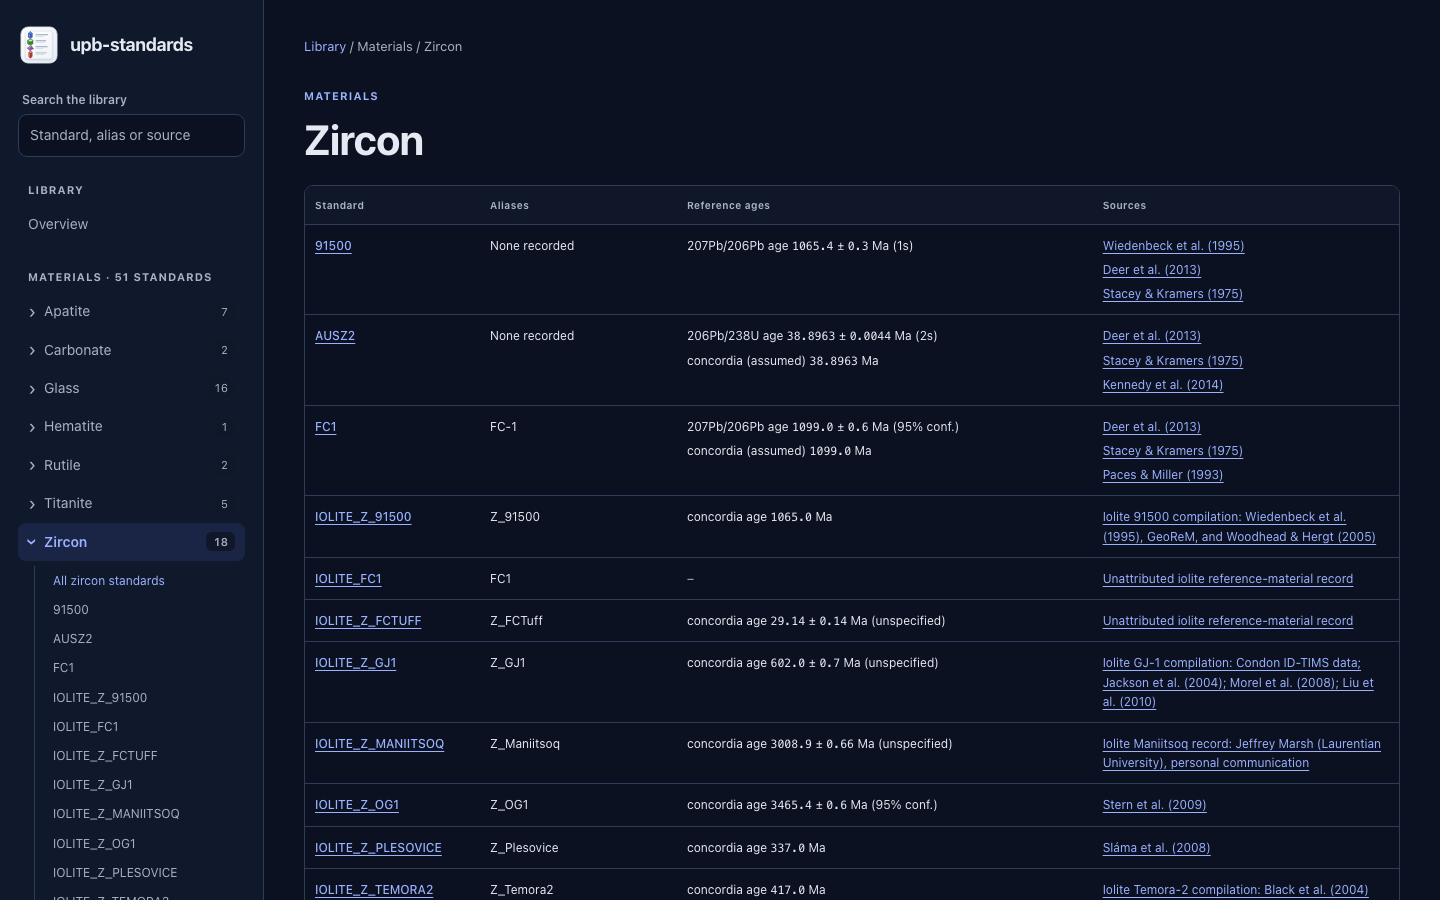
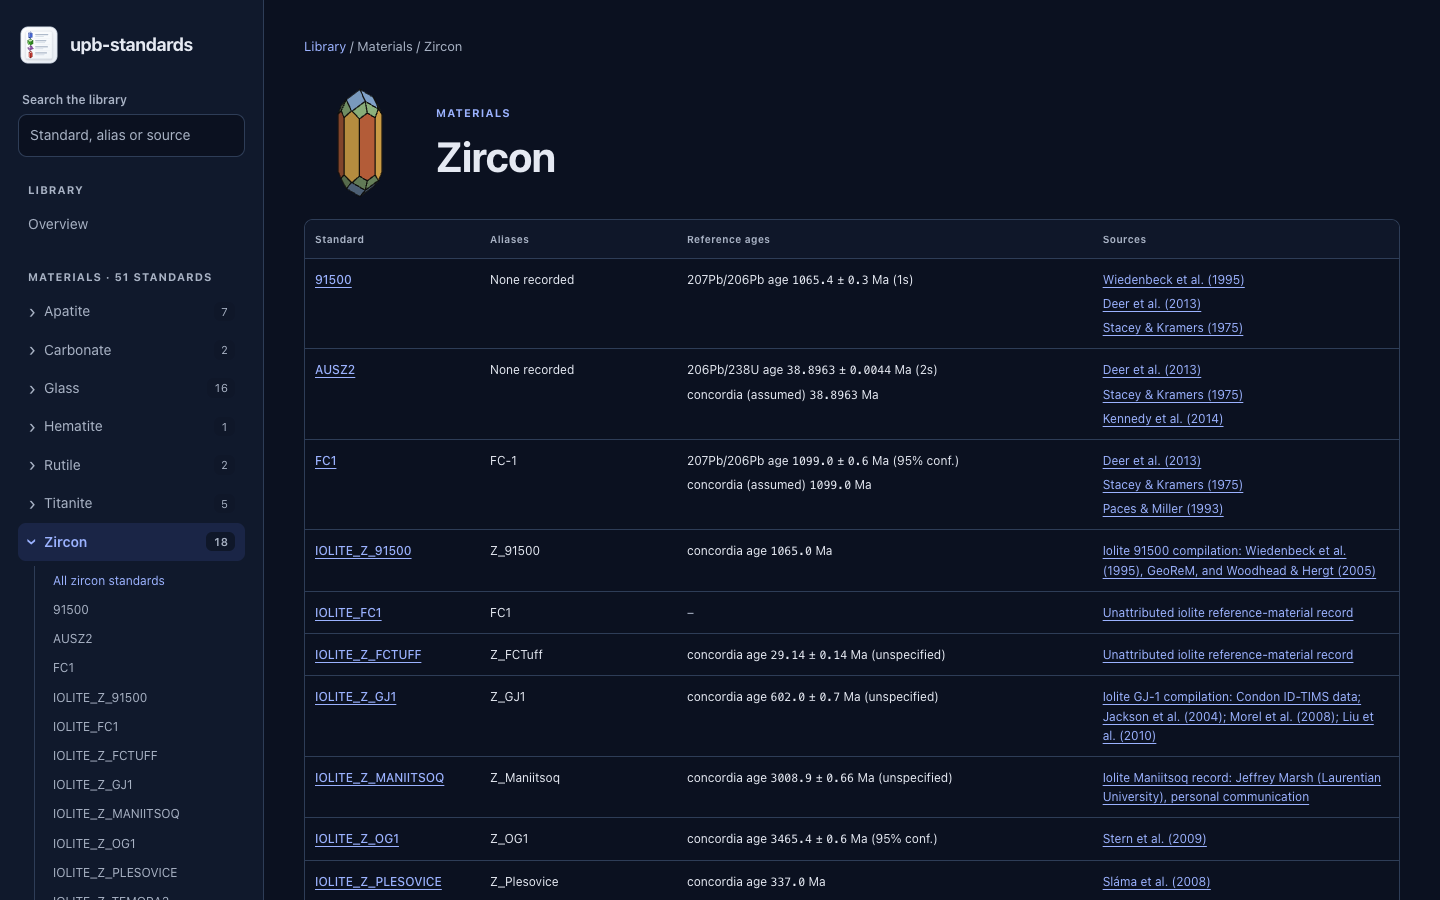
Spin Mineral Habit Atlas crystals as the mineral marks
The site's hand-drawn mineral outlines are replaced by the card crystals of
the Mineral Habit Atlas. assets/make_mineral_icons.py projects each atlas
crystal with the atlas view and lights into a still SVG and writes the face
geometry to crystals.json. Pages embed the crystals they show and a small
canvas renderer spins them at device resolution, pausing off screen and
holding still under reduced motion or without JavaScript. Carbonate uses
calcite; glass is a drawn shard. Material pages get a large crystal next to
the title, and the README materials screenshots are retaken.

diff --git a/site/static/style.css b/site/static/style.css
@@ -69,8 +69,12 @@ p { margin: 0 0 16px; }
 .card { display: block; padding: 22px; text-decoration: none; color: var(--text); box-shadow: var(--shadow); }
 .card:hover { border-color: var(--accent); text-decoration: none; }
 .card-top { display: flex; align-items: center; gap: 12px; margin-bottom: 18px; }
-.mineral-mark { display: grid; place-items: center; width: 38px; height: 42px; color: var(--accent); }
-.mineral-mark svg { width: 34px; height: 42px; }
+.mineral-mark { position: relative; display: block; flex: none; width: 64px; height: 64px; }
+.mineral-mark svg, .mineral-mark canvas { position: absolute; inset: 0; width: 100%; height: 100%; }
+.mineral-mark.live svg { visibility: hidden; }
+.mineral-mark.hero { width: 112px; height: 112px; }
+.material-head { display: flex; align-items: center; gap: 20px; margin-bottom: 8px; }
+.material-head h1 { margin-bottom: 0; }
 .card h3 { margin: 0; }
 .card p { color: var(--muted); font-size: 13px; margin: 0; }
 .card .card-meta { display: flex; justify-content: space-between; margin-top: 18px; color: var(--accent); font-size: 13px; }
@@ -165,6 +169,7 @@ pre code { padding: 0; background: none; overflow-wrap: normal; }
 .visually-hidden { position: absolute; width: 1px; height: 1px; padding: 0; margin: -1px; overflow: hidden; clip-path: inset(50%); white-space: nowrap; border: 0; }
 @media (min-width: 900px) { #nav-toggle { display: none; } }
 @media (max-width: 540px) {
+  .mineral-mark.hero { width: 80px; height: 80px; }
   main { padding-inline: 16px; }
   .breadcrumb { margin-bottom: 20px; }
   .stats { grid-template-columns: repeat(2, 1fr); gap: 20px; }

diff --git a/site/build.py b/site/build.py
@@ -200,30 +200,119 @@ def number(value):
     return f'<span class="number">{esc(full)}</span>'
 
 
-def mineral_mark(material):
-    if material == "zircon":
-        faces = ('<path d="M17 2 27 12V30L17 40 7 30V12Z" fill="#4063d8"/>'
-                 '<path d="M17 2 7 12 17 16 27 12Z" fill="#c3cff6"/>'
-                 '<path d="M7 12 17 16V34L7 30Z" fill="#7b93e6"/>'
-                 '<path d="M7 30 17 34 27 30 17 40Z" fill="#c3cff6"/>'
-                 '<path d="M17 2V16M17 16V34M17 34V40" fill="none"/>')
-        return ('<span class="mineral-mark"><svg viewBox="0 0 34 42" aria-hidden="true">'
-                f'<g stroke="#24408f" stroke-width="1.2" stroke-linejoin="round">{faces}</g>'
-                '</svg></span>')
-    shapes = {
-        "apatite": ('#389826', '#c6ecb8', 'M17 4 29 10V32L17 38 5 32V10Z', 'M17 4 29 10 23 17H11L5 10Z'),
-        "titanite": ('#9558b2', '#e2cdea', 'M3 24 22 7 31 28 12 36Z', 'M3 24 22 7 17 25Z'),
-        "rutile": ('#cb3c33', '#f5c3bf', 'M17 2 25 8V33L17 40 9 34V9Z', 'M17 2 25 8 17 13 9 9Z'),
-        "glass": ('#89aab2', '#d9edf0', 'M3 20 23 15 31 21V25L11 30 3 24Z', 'M3 20 23 15 31 21 11 26Z'),
-        "carbonate": ('#389826', '#c6ecb8', 'M4 16 21 5 31 26 14 37Z', 'M4 16 21 5 23 22Z'),
-        "hematite": ('#cb3c33', '#f5c3bf', 'M3 19 11 8H25L32 23 24 34H10Z', 'M3 19 11 8H25L21 21Z'),
+MINERALS = ROOT / "assets" / "minerals"
+
+
+def mineral_mark(material, size=""):
+    """A crystal from the Mineral Habit Atlas: a still SVG that CRYSTAL_SCRIPT spins live."""
+    still = MINERALS / f"{material}.svg"
+    if not still.is_file():
+        still = MINERALS / "glass.svg"
+    return (f'<span class="{" ".join(filter(None, ("mineral-mark", size)))}" data-crystal="{esc(still.stem)}">'
+            f'{still.read_text(encoding="utf-8").strip()}</span>')
+
+
+def crystal_data(body):
+    """The crystals.json entries for the marks that appear in a page body."""
+    used = sorted(set(re.findall(r'data-crystal="([a-z]+)"', body)))
+    if not used:
+        return ""
+    crystals = json.loads((MINERALS / "crystals.json").read_text(encoding="utf-8"))
+    data = json.dumps({name: crystals[name] for name in used if name in crystals}, separators=(",", ":"))
+    return (f'<script id="crystals" type="application/json">{data}</script>\n'
+            f'<script>{CRYSTAL_SCRIPT}</script>\n')
+
+
+CRYSTAL_SCRIPT = r"""
+(() => {
+  // Live view of the Mineral Habit Atlas crystals. Each crystal is convex, so drawing
+  // the faces that point at the viewer is a complete render; no depth sorting needed.
+  const crystals = JSON.parse(document.getElementById('crystals').textContent);
+  const still = matchMedia('(prefers-reduced-motion: reduce)');
+  const darkScheme = matchMedia('(prefers-color-scheme: dark)');
+  const unit = v => { const n = Math.hypot(...v); return v.map(x => x / n); };
+  const KEY = unit([2.5, 4, 5]), RIM = unit([-4, 1, -3]);  // atlas key and rim lights
+  const rad = Math.PI / 180;
+  const marks = [];
+  function project(c, turn) {
+    // Same chain as the atlas card: c axis up, turned about it, then tipped towards the viewer.
+    const t = c.view.tilt * rad, u = turn * rad;
+    const ct = Math.cos(t), st = Math.sin(t), cu = Math.cos(u), su = Math.sin(u);
+    return c.vertices.map(([x, y, z]) => {
+      const X = cu * x - su * y, Y = z, Z = -su * x - cu * y;
+      return [X, ct * Y - st * Z, st * Y + ct * Z];
+    });
+  }
+  function draw(m, turn) {
+    const { canvas, ctx, c, radius } = m;
+    const w = canvas.width, h = canvas.height, s = 0.98 * Math.min(w, h) / (2 * radius);
+    const P = project(c, turn);
+    const dark = darkScheme.matches;
+    ctx.clearRect(0, 0, w, h);
+    ctx.lineJoin = 'round';
+    const front = [];
+    for (const f of c.faces) {
+      const [a, b, d] = f.loop.slice(0, 3).map(i => P[i]);
+      const e1 = [b[0] - a[0], b[1] - a[1], b[2] - a[2]], e2 = [d[0] - a[0], d[1] - a[1], d[2] - a[2]];
+      const n = unit([e1[1] * e2[2] - e1[2] * e2[1], e1[2] * e2[0] - e1[0] * e2[2], e1[0] * e2[1] - e1[1] * e2[0]]);
+      if (n[2] <= 1e-6) continue;
+      const k = Math.max(0, n[0] * KEY[0] + n[1] * KEY[1] + n[2] * KEY[2]);
+      const r = Math.max(0, n[0] * RIM[0] + n[1] * RIM[1] + n[2] * RIM[2]);
+      const g = 0.58 + 0.5 * k + 0.12 * r;
+      const rgb = [1, 3, 5].map(i => Math.min(255, Math.round(parseInt(f.color.slice(i, i + 2), 16) * g + 12.75)));
+      front.push([f.loop, `rgb(${rgb.join(',')})`]);
     }
-    base, light, outline, top = shapes.get(material, shapes["glass"])
-    stroke = '#607f87' if material == 'glass' else 'currentColor'
-    return (f'<span class="mineral-mark"><svg viewBox="0 0 34 42" aria-hidden="true">'
-            f'<path d="{outline}" fill="{base}" stroke="{stroke}" stroke-width="1.5" stroke-linejoin="round"/>'
-            f'<path d="{top}" fill="{light}" stroke="{stroke}" stroke-width="1.5" stroke-linejoin="round"/>'
-            '</svg></span>')
+    const path = loop => {
+      ctx.beginPath();
+      loop.forEach((i, j) => ctx[j ? 'lineTo' : 'moveTo'](w / 2 + P[i][0] * s, h / 2 - P[i][1] * s));
+      ctx.closePath();
+    };
+    for (const [loop, fill] of front) {
+      path(loop); ctx.fillStyle = fill; ctx.strokeStyle = fill; ctx.lineWidth = 0.6; ctx.fill(); ctx.stroke();
+    }
+    ctx.strokeStyle = dark ? 'rgba(11, 10, 8, .75)' : 'rgba(42, 32, 24, .6)';
+    ctx.lineWidth = Math.max(1, w / 90);
+    for (const [loop] of front) { path(loop); ctx.stroke(); }
+  }
+  function size(m) {
+    const box = m.el.getBoundingClientRect(), dpr = window.devicePixelRatio || 1;
+    m.canvas.width = Math.round(box.width * dpr);
+    m.canvas.height = Math.round(box.height * dpr);
+  }
+  document.querySelectorAll('[data-crystal]').forEach((el, i) => {
+    const c = crystals[el.dataset.crystal];
+    if (!c) return;
+    const canvas = document.createElement('canvas');
+    canvas.setAttribute('aria-hidden', 'true');
+    const m = { el, canvas, ctx: canvas.getContext('2d'), c, visible: true, phase: i * 37,
+                radius: Math.max(...c.vertices.map(v => Math.hypot(...v))) };
+    el.classList.add('live');
+    el.append(canvas);
+    size(m);
+    marks.push(m);
+  });
+  if (!marks.length) return;
+  const seen = new IntersectionObserver(entries => entries.forEach(e => {
+    const m = marks.find(x => x.el === e.target); if (m) m.visible = e.isIntersecting;
+  }));
+  marks.forEach(m => seen.observe(m.el));
+  const start = performance.now();
+  let running = false;
+  function frame(now) {
+    const spin = still.matches ? 0 : (now - start) / 1000 * 18;  // 18 degrees a second
+    for (const m of marks) {
+      if (m.visible || !spin) draw(m, m.c.view.turn + (spin ? spin + m.phase : 0));
+    }
+    if (spin) requestAnimationFrame(frame); else running = false;
+  }
+  function kick() { if (!running) { running = true; requestAnimationFrame(frame); } }
+  kick();
+  const redraw = () => { marks.forEach(size); running = false; kick(); };
+  window.addEventListener('resize', redraw);
+  still.addEventListener('change', redraw);
+  darkScheme.addEventListener('change', redraw);
+})();
+"""
 
 
 SEARCH_SCRIPT = r"""
@@ -380,7 +469,7 @@ def page(title, body, path, groups, index, material=None):
 </main>
 <script id="search-index" type="application/json">{data}</script>
 <script>{SEARCH_SCRIPT}</script>
-</body>
+{crystal_data(body)}</body>
 </html>
 '''
 
@@ -514,7 +603,7 @@ def material_page(material, items, sources):
         '<thead><tr><th scope="col">Standard</th><th scope="col">Aliases</th>'
         '<th scope="col">Reference ages</th><th scope="col">Sources</th></tr></thead>'
         f'<tbody>{"".join(summaries)}</tbody></table></div>')
-    return f'''<p class="eyebrow">Materials</p><h1>{esc(material.title())}</h1>
+    return f'''<div class="material-head">{mineral_mark(material, "hero")}<div><p class="eyebrow">Materials</p><h1>{esc(material.title())}</h1></div></div>
 {summary}
 <p class="lede">{esc(SUMMARIES.get(material, "Reference-material values."))} Each panel records the stored source measurements.</p>
 <div class="toolbar"><label><span class="search-label">Filter {esc(material)} standards</span><input type="search" id="standard-search" placeholder="Name, alias or source" autocomplete="off"></label>

diff --git a/assets/make_mineral_icons.py b/assets/make_mineral_icons.py
@@ -1,0 +1,157 @@
+"""Draw the mineral marks from the Mineral Habit Atlas crystals.
+
+    python assets/make_mineral_icons.py path/to/mineral-habit-matrix/site/data/atlas.json
+
+The atlas file holds the crystal shown on each mineral card of
+https://duserzym.github.io/mineral-habit-matrix/ (geometry, face colours per form
+and the card view). Each one is projected with the atlas card view, shaded with
+the atlas key and rim lights, and written as a flat SVG to assets/minerals/.
+Glass has no crystal habit, so it is drawn here as a thin conchoidal shard in
+the same style. It also writes assets/minerals/crystals.json, the face loops
+and colours that site/build.py embeds so each page can spin the crystals live;
+the SVGs are the still fallback without JavaScript or with reduced motion.
+"""
+
+import json
+import math
+import sys
+from pathlib import Path
+
+OUT = Path(__file__).resolve().parent / "minerals"
+
+# library material -> atlas mineral
+ATLAS = {"zircon": "zircon", "apatite": "apatite", "titanite": "titanite", "rutile": "rutile",
+         "hematite": "hematite", "carbonate": "calcite", "monazite": "monazite", "xenotime": "xenotime"}
+
+# Card views that read better as a small still icon than the atlas defaults.
+VIEWS = {"titanite": {"tilt": 30, "turn": 20}, "hematite": {"tilt": 40, "turn": -35}}
+
+KEY = (2.5, 4.0, 5.0)    # atlas key light
+RIM = (-4.0, 1.0, -3.0)  # atlas rim light
+EDGE = "#2a2018"         # atlas edge colour (light theme)
+
+
+def unit(v):
+    n = math.sqrt(sum(x * x for x in v))
+    return tuple(x / n for x in v)
+
+
+def matmul(a, b):
+    return [[sum(a[i][k] * b[k][j] for k in range(3)) for j in range(3)] for i in range(3)]
+
+
+def apply(m, v):
+    return tuple(sum(m[i][k] * v[k] for k in range(3)) for i in range(3))
+
+
+def rx(t):
+    c, s = math.cos(t), math.sin(t)
+    return [[1, 0, 0], [0, c, -s], [0, s, c]]
+
+
+def ry(t):
+    c, s = math.cos(t), math.sin(t)
+    return [[c, 0, s], [0, 1, 0], [-s, 0, c]]
+
+
+def view_matrix(tilt=12, turn=-24):
+    # three.js: holder quaternion from Euler(tilt, turn, 0, 'XYZ') applied after the
+    # inner crystal.rotation.x = -pi/2 that stands the c axis up.
+    return matmul(matmul(rx(math.radians(tilt)), ry(math.radians(turn))), rx(-math.pi / 2))
+
+
+def hex2rgb(h):
+    return [int(h[i:i + 2], 16) for i in (1, 3, 5)]
+
+
+def rgb2hex(c):
+    return "#" + "".join(f"{max(0, min(255, round(x))):02x}" for x in c)
+
+
+def shade(colour, n):
+    key, rim = unit(KEY), unit(RIM)
+    k = max(0.0, sum(a * b for a, b in zip(n, key)))
+    r = max(0.0, sum(a * b for a, b in zip(n, rim)))
+    f = 0.58 + 0.5 * k + 0.12 * r
+    return rgb2hex([x * f + 255 * 0.05 for x in hex2rgb(colour)])
+
+
+def render(vertices, faces, colours, view, pad=2.0):
+    m = view_matrix(**view)
+    world = [apply(m, v) for v in vertices]
+    drawn = []
+    for f in faces:
+        loop = [world[i] for i in f["loop"]]
+        a, b, c = loop[0], loop[1], loop[2]
+        u = [b[i] - a[i] for i in range(3)]
+        w = [c[i] - a[i] for i in range(3)]
+        n = unit((u[1] * w[2] - u[2] * w[1], u[2] * w[0] - u[0] * w[2], u[0] * w[1] - u[1] * w[0]))
+        if n[2] <= 1e-6:  # camera looks down -z; keep faces turned towards it
+            continue
+        depth = sum(p[2] for p in loop) / len(loop)
+        drawn.append((depth, [(p[0], -p[1]) for p in loop], shade(colours[f["form"]], n)))
+    drawn.sort(key=lambda d: d[0])
+    pts = [p for _, loop, _ in drawn for p in loop]
+    xs, ys = [p[0] for p in pts], [p[1] for p in pts]
+    scale = min((34 - 2 * pad) / (max(xs) - min(xs)), (42 - 2 * pad) / (max(ys) - min(ys)))
+    cx, cy = (max(xs) + min(xs)) / 2, (max(ys) + min(ys)) / 2
+
+    def fmt(loop):
+        return " ".join(f"{(x - cx) * scale + 17:.2f},{(y - cy) * scale + 21:.2f}" for x, y in loop)
+
+    faces_svg = "".join(f'<polygon points="{fmt(loop)}" fill="{col}"/>' for _, loop, col in drawn)
+    edges_svg = "".join(f'<polygon points="{fmt(loop)}"/>' for _, loop, _ in drawn)
+    return ('<svg viewBox="0 0 34 42" aria-hidden="true">'
+            f'<g stroke="{EDGE}" stroke-opacity="0.18" stroke-width="0.4" stroke-linejoin="round">{faces_svg}</g>'
+            f'<g fill="none" stroke="{EDGE}" stroke-opacity="0.6" stroke-width="0.7" stroke-linejoin="round">{edges_svg}</g>'
+            '</svg>\n')
+
+
+def glass_shard():
+    """A thin shard with an irregular outline, extruded along c."""
+    outline = [(-0.95, -0.35), (-0.2, -0.75), (0.55, -0.6), (1.0, -0.05),
+               (0.6, 0.55), (-0.15, 0.7), (-0.75, 0.3)]
+    h = 0.16
+    vertices = [(x, y, h) for x, y in outline] + [(x, y, -h) for x, y in outline]
+    n = len(outline)
+    faces = [{"form": "top", "loop": list(range(n))},
+             {"form": "top", "loop": list(range(2 * n - 1, n - 1, -1))}]
+    for i in range(n):
+        j = (i + 1) % n
+        faces.append({"form": "side", "loop": [i, i + n, j + n, j]})
+    # stand the slab on edge so the c-axis-up view shows its broad face
+    vertices = [(x, z, y) for x, y, z in vertices]
+    faces = [{**f, "loop": f["loop"][::-1]} for f in faces]
+    return vertices, faces, {"top": "#a9c7cf", "side": "#7fa3ad"}, {"tilt": 14, "turn": -28}
+
+
+def crystal(vertices, faces, colours, view):
+    """Compact geometry for the live view: vertices rounded, faces with their colour."""
+    return {"view": {"tilt": view.get("tilt", 12), "turn": view.get("turn", -24)},
+            "vertices": [[round(x, 4) for x in v] for v in vertices],
+            "faces": [{"loop": f["loop"], "color": colours[f["form"]]} for f in faces]}
+
+
+def main():
+    if len(sys.argv) != 2:
+        sys.exit(__doc__)
+    atlas = json.loads(Path(sys.argv[1]).read_text(encoding="utf-8"))
+    OUT.mkdir(exist_ok=True)
+    crystals = {}
+    for material, mineral in ATLAS.items():
+        card = atlas[mineral]
+        colours = {f["key"]: f["color"] for f in card["forms"]}
+        view = VIEWS.get(material) or card.get("view") or {}
+        shape = (card["geometry"]["vertices"], card["geometry"]["faces"], colours, view)
+        (OUT / f"{material}.svg").write_text(render(*shape), encoding="utf-8")
+        crystals[material] = {"source": f"Mineral Habit Atlas {mineral} {card['id']}", **crystal(*shape)}
+        print(f"{material}: atlas {mineral} {card['id']}")
+    shape = glass_shard()
+    (OUT / "glass.svg").write_text(render(*shape), encoding="utf-8")
+    crystals["glass"] = {"source": "glass shard drawn for upb-standards", **crystal(*shape)}
+    (OUT / "crystals.json").write_text(json.dumps(crystals, separators=(",", ":")) + "\n", encoding="utf-8")
+    print("glass: shard")
+
+
+if __name__ == "__main__":
+    main()

diff --git a/README.md b/README.md
@@ -101,7 +101,12 @@ python3 site/build.py --out _site --check
 ```
 
 Open `_site/index.html` directly; no server is needed. Regenerate the icon
-PNGs with `sh assets/make_icons.sh` (requires `rsvg-convert`). The Pages
+PNGs with `sh assets/make_icons.sh` (requires `rsvg-convert`).
+The mineral marks are crystals from the
+[Mineral Habit Atlas](https://duserzym.github.io/mineral-habit-matrix/); the site
+spins them live and falls back to still SVGs. Redraw them with
+`python3 assets/make_mineral_icons.py <mineral-habit-matrix>/site/data/atlas.json`.
+The Pages
 workflow runs by hand with `gh workflow run pages`.
 
 ## Related apps
